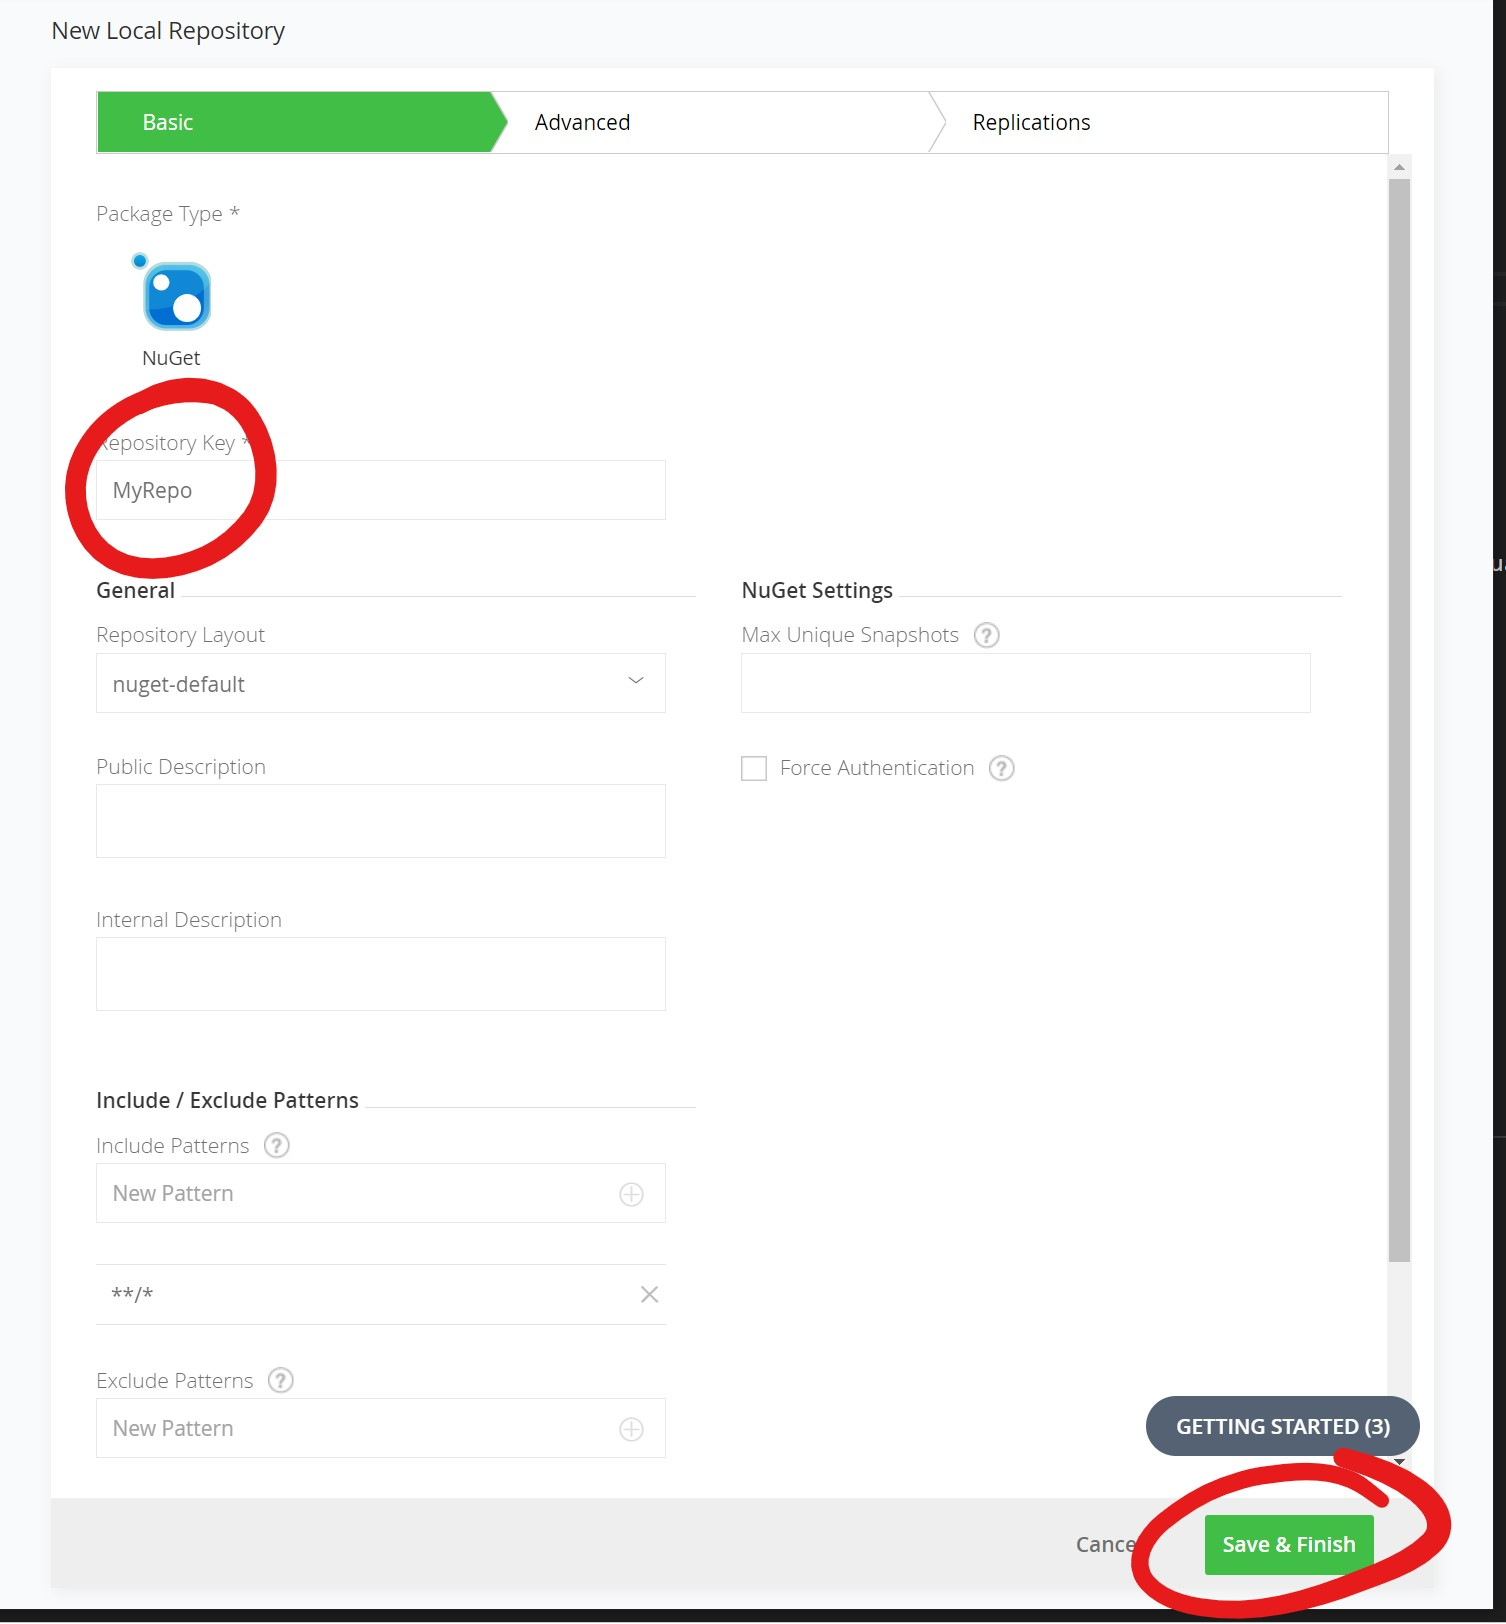
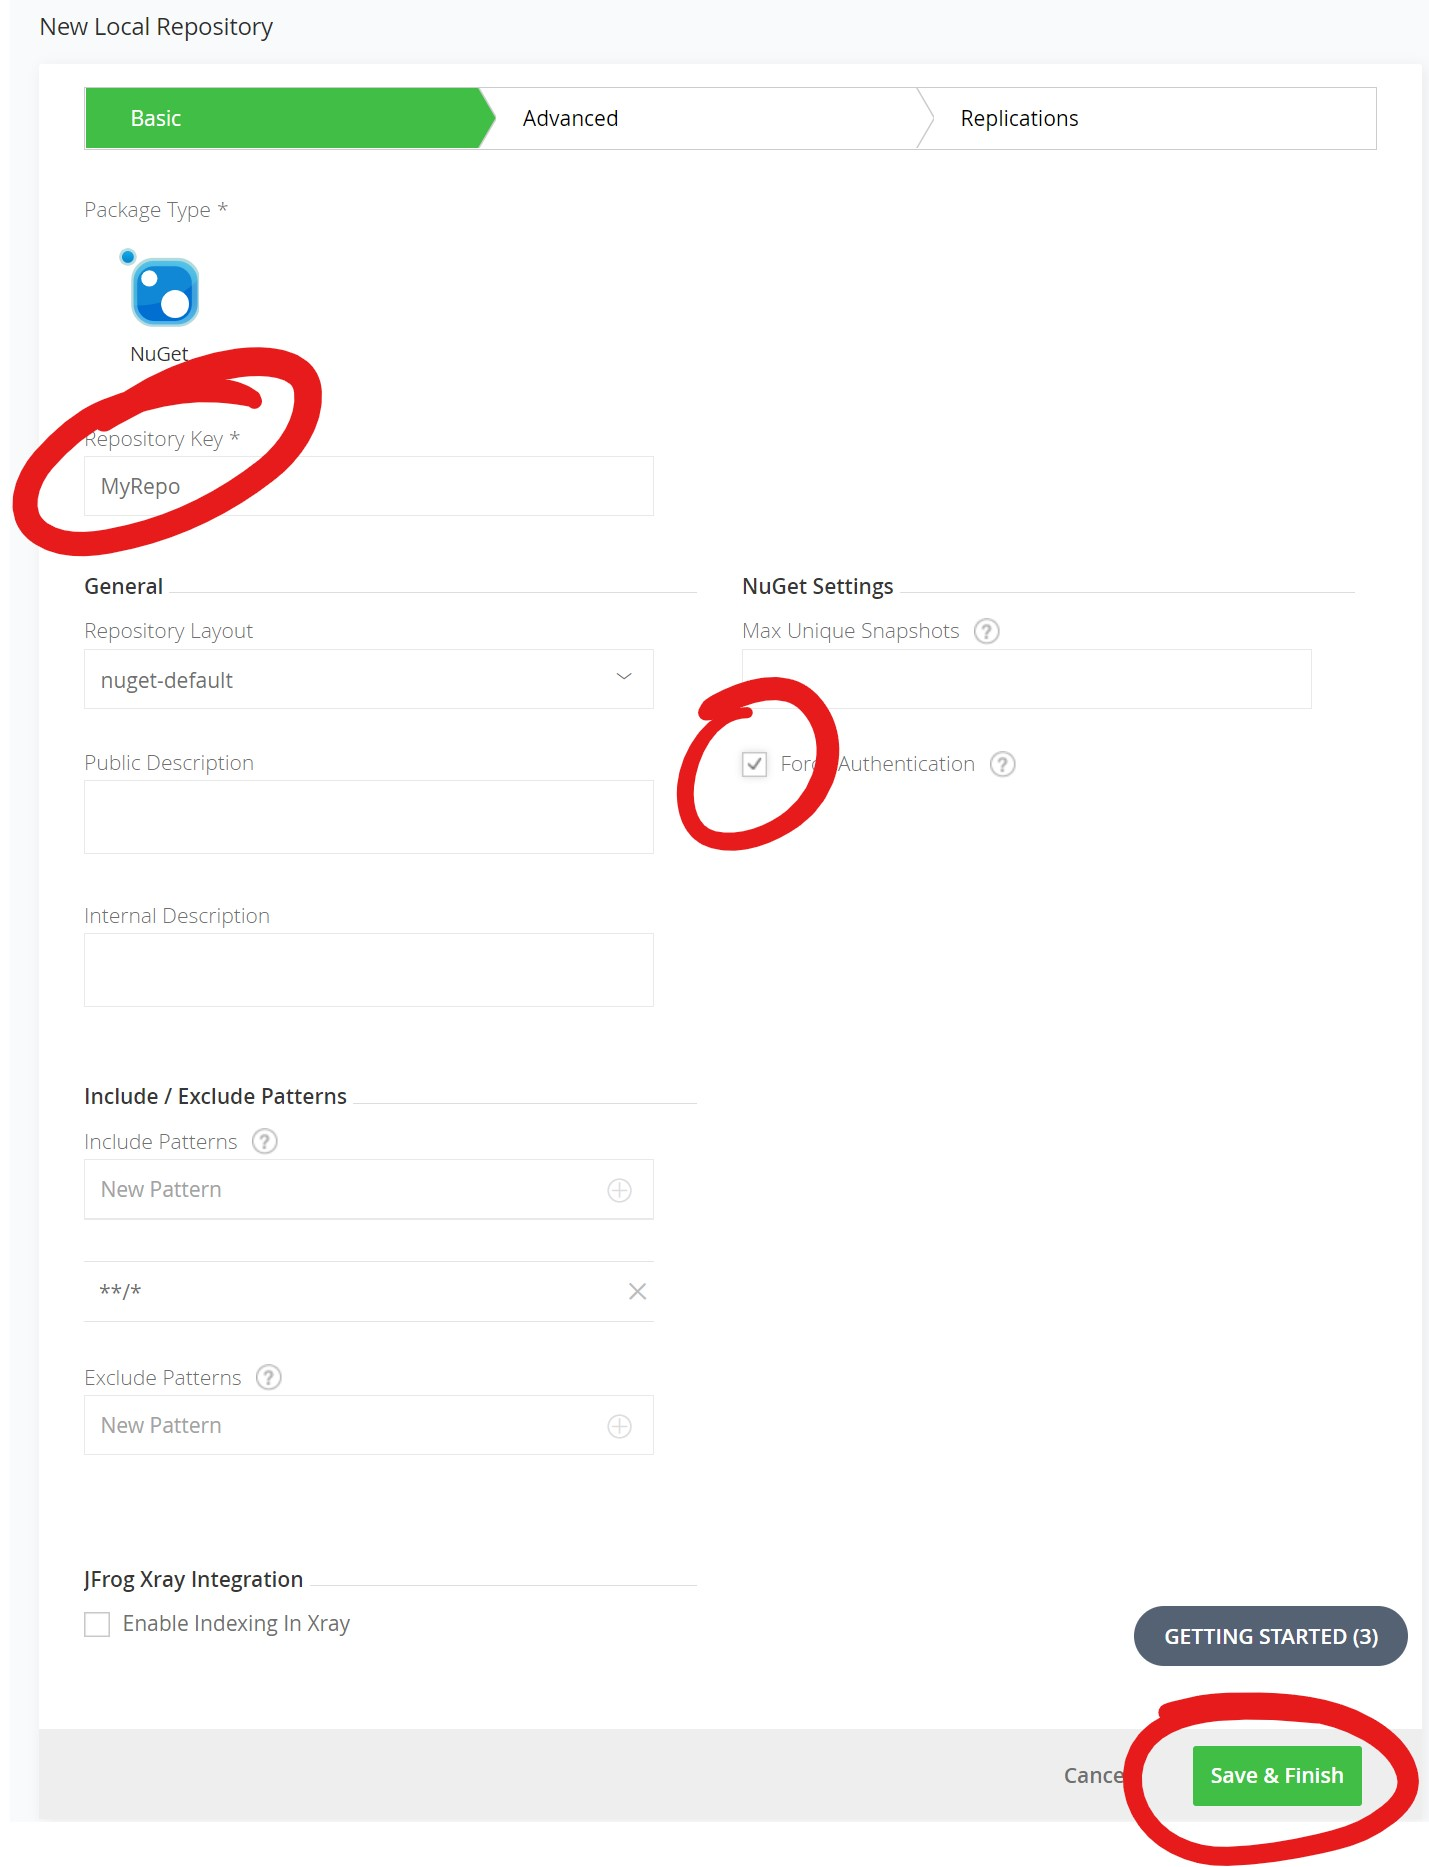
docs

diff --git a/docs/devops/jfrog/private-nuget-repository.md b/docs/devops/jfrog/private-nuget-repository.md
@@ -21,15 +21,23 @@ The article is using `blueish1` as an example.
 You will get an e-mail sent to the address you entered in the form. Make sure to click on the link for activating yor subscription in the e-mail.
 
 #### 4. Create a repository
-While still using Chrome, browse to `https://blueish1.jfrog.com` (replace `blueish1` with the name of your subscription) and log in with the credentials you created in step 2. 
+While still using Chrome, browse to `https://blueish1.jfrog.io` (replace `blueish1` with the name of your subscription) and log in with the credentials you created in step 2. 
 
-When you are logged in, click the *Create a Repository* button as shown below.
+When you are logged in, click the *Create a Repository* button as shown below. 
 ![The welcome to the JFrog Platform page is shown with a button for creating a repository.](./../../../img/jfrog/jfrog3.jpg)
 
+Then select *Create Local Repository*.
+![A page showing the options of creating a local repository, a remote repository or a virtual repository.](./../../../img/jfrog/jfrog4.jpg)
+
+Continue by selecting the *NuGet* ikon to create a NuGet package repository.
+![A page showing ikons for al supported repositories, 26 of them.](./../../../img/jfrog/jfrog5.jpg)
+
+Now fill in the *Repository Key*, which essentially is the name of your repository, and check the *Force Authentication* checkbox so no anonymous connections can be made.
+Nothing else needs to be filled in, so continue by clicking on *Save & Finish*.
+![A page showing the New Repository form.](./../../../img/jfrog/jfrog6.jpg)
+
 #### 5. 
-![.](./../../../img/jfrog/jfrog4.jpg)
-![.](./../../../img/jfrog/jfrog5.jpg)
-![.](./../../../img/jfrog/jfrog6.jpg)
+
 ![.](./../../../img/jfrog/jfrog7.jpg)
 
 
